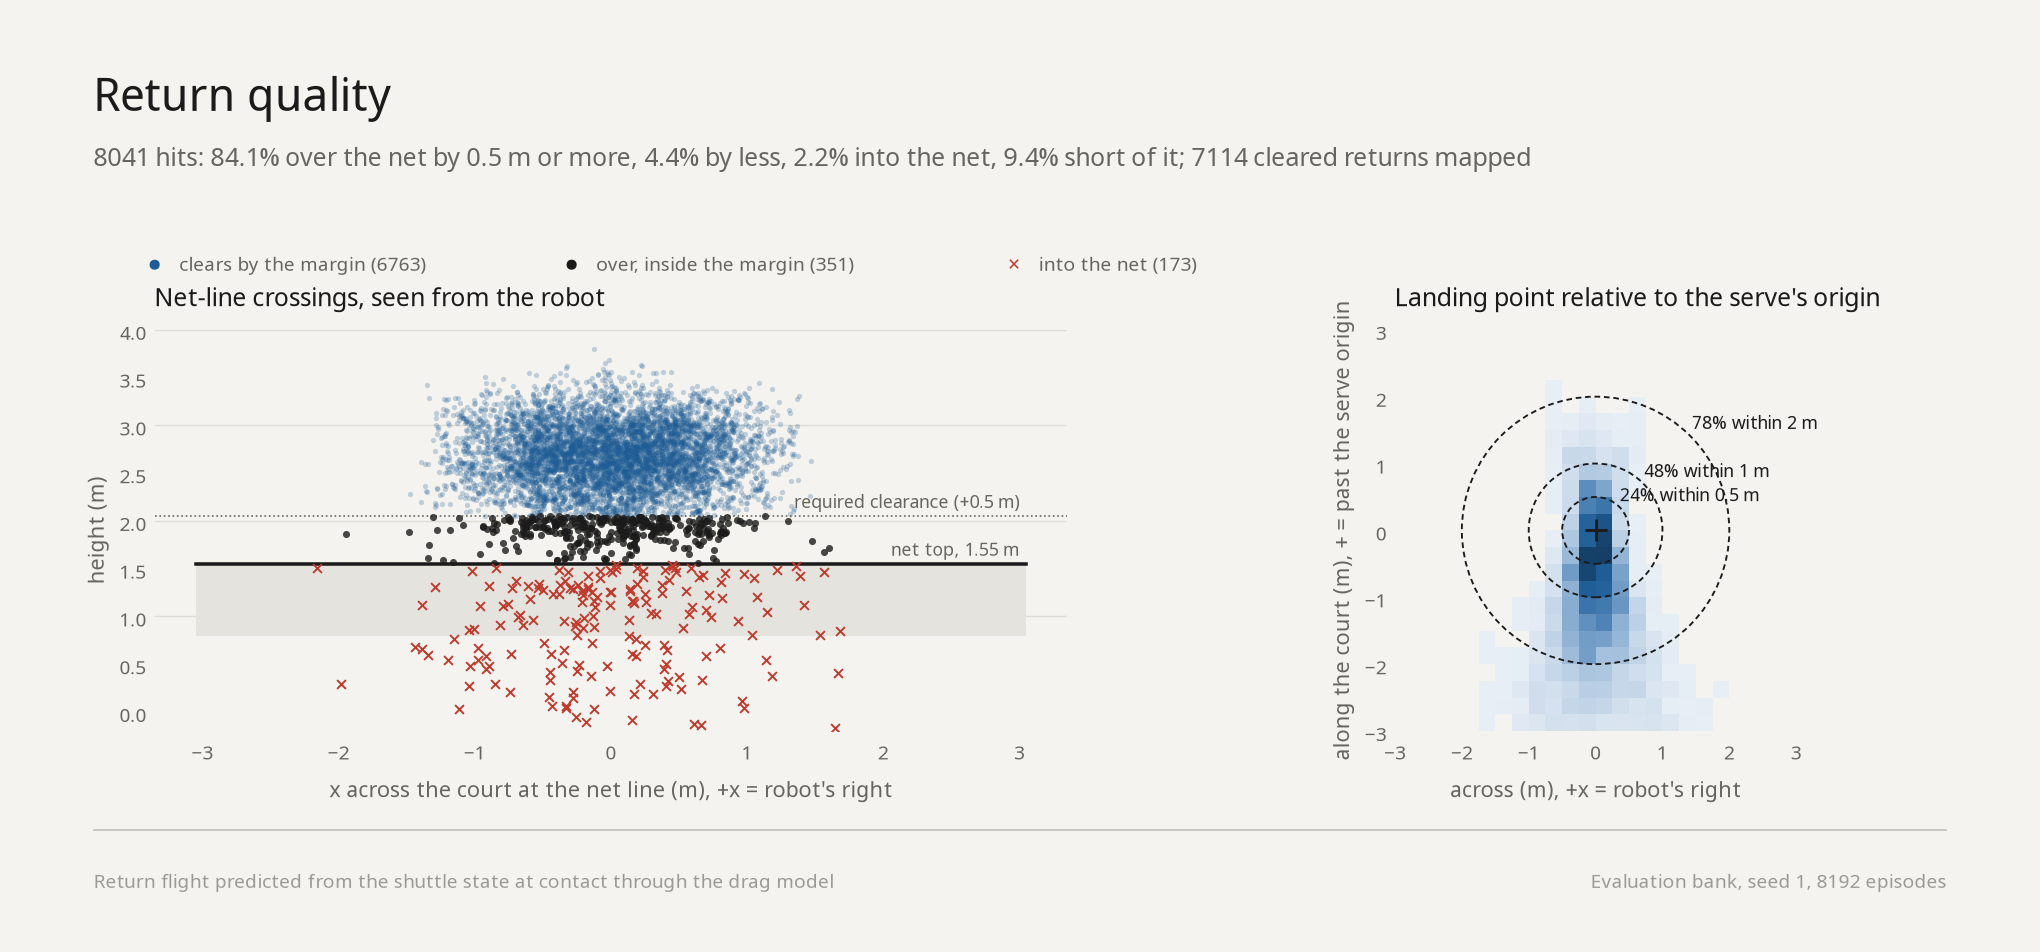
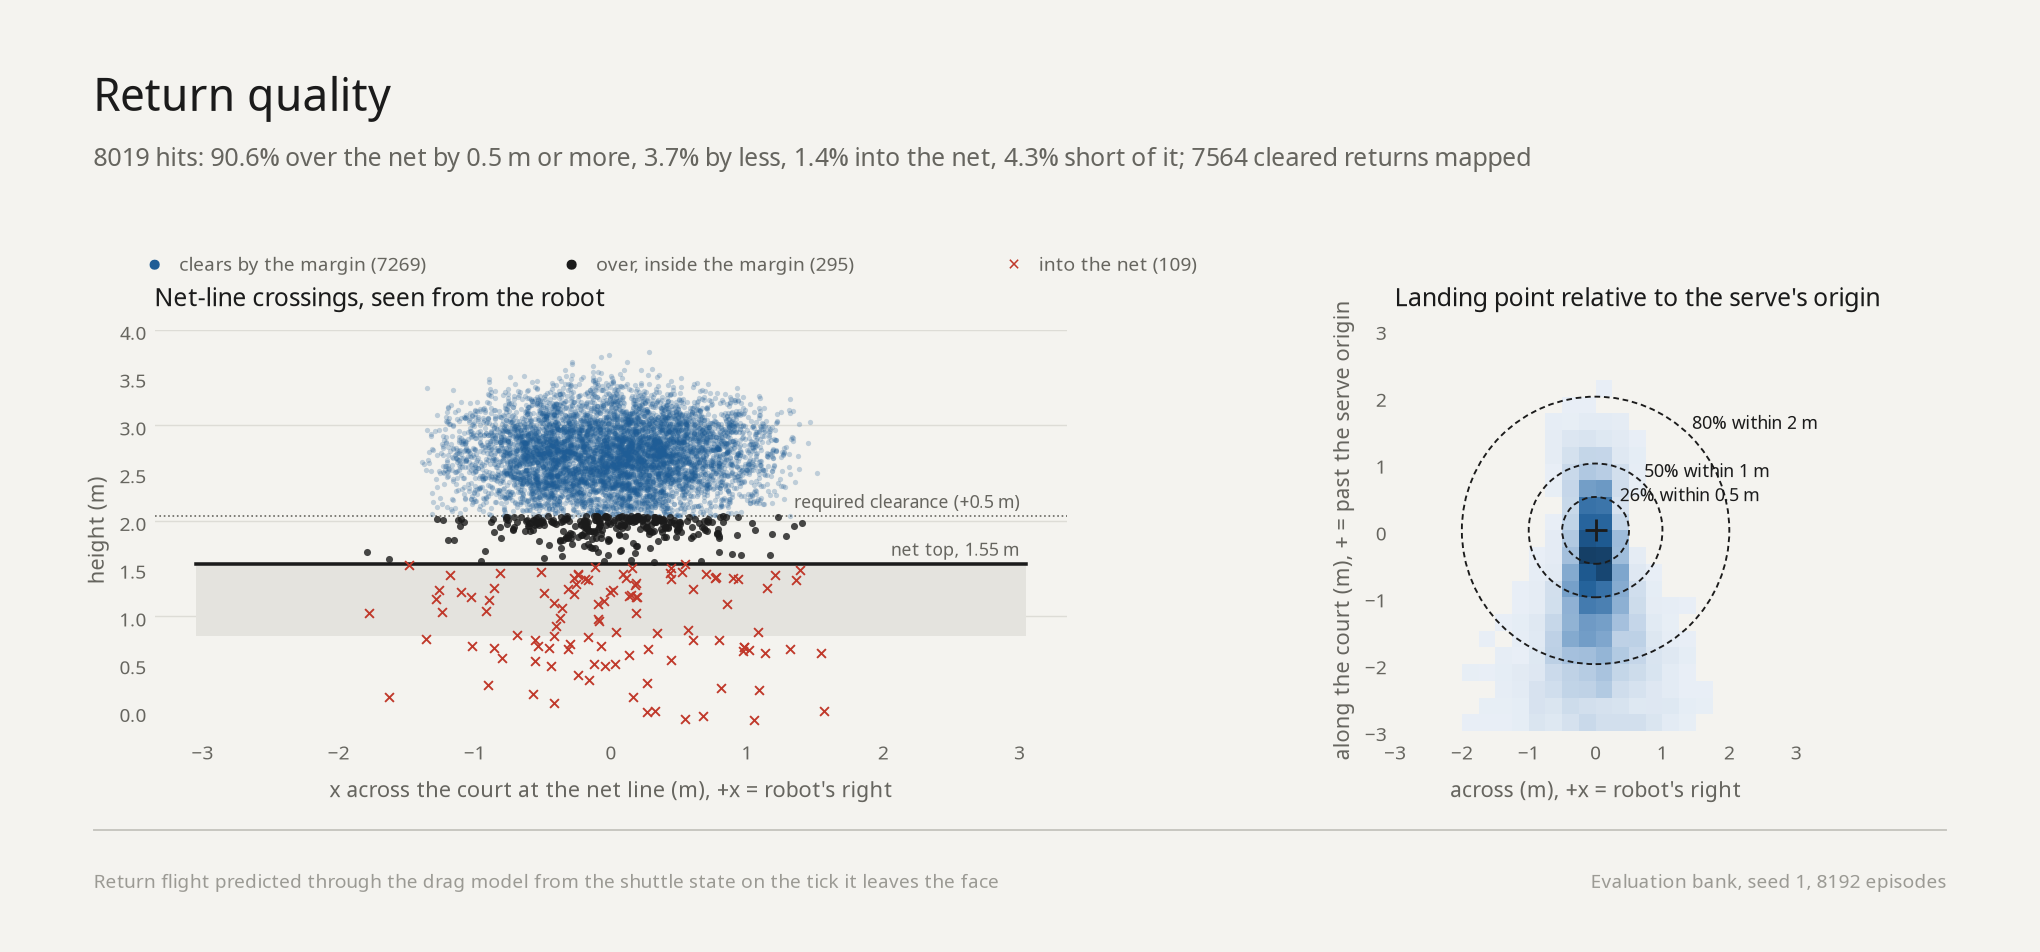
Blog: badminton figures and numbers from the corrected return prediction
Figures 2 to 5 re-rendered from a seed-1 evaluation bank run at humanoid
cd3fcee7, where the return's landing is predicted from the shuttle state on
the first tick after the face lets go of the cork rather than the
first-contact tick (mid-contact when the 12 ms contact spans a tick
boundary). Returns that clear the net go from 88.5% to 94.3% of hits on
both banks; short returns from 9% to 4%. Hit rate 97.9% on the evaluation
bank and 98.2% on the training bank, both rerun on the same node. The
reward paragraph notes that the policy was trained with the contact-tick
version. Figure 1 is unchanged.

Claude-Session: https://claude.ai/code/session_013B3SG4csr1RQ8BdxF7FMRY

diff --git a/wato-humanoid-wiki/blog/2026-10-28-badminton-bimanual-rl.md b/wato-humanoid-wiki/blog/2026-10-28-badminton-bimanual-rl.md
@@ -5,7 +5,7 @@ authors: [sean]
 tags: [software, controls, rl]
 ---
 
-**Goal:** get a stationary bimanual arm to return a badminton serve with either hand, in simulation. The result is one single-arm network that drives both arms, and a small critic model to pick either the left or right arm. On 8192 serves it has never seen, it hits 98.2%, splits the work 50/50 between the arms, and sends 88% of returns over the net.
+**Goal:** get a stationary bimanual arm to return a badminton serve with either hand, in simulation. The result is one single-arm network that drives both arms, and a small critic model to pick either the left or right arm. On 8192 serves it has never seen, it hits 97.9%, splits the work 49/51 between the arms, and sends 94% of returns over the net.
 
 <video width="100%" controls muted playsInline poster="/humanoid-docs/img/humanoid/badminton/blog/demo_poster.png">
   <source src="/humanoid-docs/img/humanoid/badminton/blog/demo.mp4" type="video/mp4" />
@@ -26,12 +26,12 @@ Serves come from a bank of 4096 shots sampled from that distribution. Training d
 
 | | training bank | evaluation bank |
 |---|---|---|
-| serves hit | 98.3% | 98.2% |
-| right / left arm | 49 / 51 | 50 / 50 |
-| returns clear the net | 88.5% | 88.5% |
-| median landing error | 1.07 m | 1.05 m |
+| serves hit | 98.2% | 97.9% |
+| right / left arm | 50 / 50 | 49 / 51 |
+| returns clear the net | 94.3% | 94.3% |
+| median landing error | 1.04 m | 1.00 m |
 
-The training bank itself moves by 0.1 points between reruns (the filter noise and the arm draw differ each time), so the gap is inside that noise.
+The same bank moves by up to 0.3 points between reruns (the filter noise and the arm draw differ each time, and the GPU model changes the numerics), so the gap is inside that noise.
 
 MuJoCo was selected as the simulation environment over Isaac Lab for two main reasons: CPU MuJoCo allows for rapid local iteration without a GPU and Isaac Lab's advantages (rendering, sensor simulation) are not advantageous in this use-case. Training runs on MuJoCo Warp through mjlab, 1024 environments at a time, with rsl_rl's PPO.
 
@@ -88,7 +88,7 @@ The chooser critic is not the one the policy was trained with. The policy's own 
 ![Arm selection by the critic](/img/humanoid/badminton/blog/fig_arm_pick.png)
 *Figure 2: Arm selection on the evaluation bank. Every intercept coloured by the arm that took it, the share taken by the right arm with the 50/50 line, and the hit rate for same-side and cross-body picks.*
 
-The picks are not what a naive rule would produce. The obvious rule is the same-side arm: serves left of centre go to the left arm. The learned model takes the same-side arm on 88% of serves outside the centre band and on only 30% inside it ($|x| < 0.4$ m), where it prefers the cross-body arm. Over the whole bank, cross-body picks hit 98.6% and same-side picks 97.7%. Whatever the critic is reading in the joint state and the approach angle, it is a better rule than the naive solution.
+The picks are not what a naive rule would produce. The obvious rule is the same-side arm: serves left of centre go to the left arm. The learned model takes the same-side arm on 89% of serves outside the centre band and on only 28% inside it ($|x| < 0.4$ m), where it prefers the cross-body arm. Over the whole bank, cross-body picks hit 98.8% and same-side picks 97.0%. Whatever the critic is reading in the joint state and the approach angle, it is a better rule than the naive solution.
 
 Most locks happen at the cap. With $m = 0.5$ the median lock is 0.04 s at the same hit rate, and a cap of 0.3 s, outside the training window, drops the hit rate to 85%.
 
@@ -135,6 +135,8 @@ There are two approach terms because one width cannot do both jobs. At $\sigma =
 
 The landing term is paid at the hit, not at the landing. On the tick of contact the shuttle's velocity is run forward through the drag model to predict where it will come down, and the reward for that prediction is given immediately, so the swing is credited on the tick it happens rather than two seconds later.
 
+One correction to that, made after this policy was trained. The face contact (12 ms time constant) often outlasts the 20 ms control tick it starts in, so the shuttle state at the end of the first-contact tick is sometimes mid-contact, and a return that goes on to clear the net could be predicted short. The return numbers and figures in this post take the state on the first tick after the face lets go of the cork instead. The reward is now paid on that tick too; the policy shown here was trained with the contact-tick version, so some of its landing rewards were noisy.
+
 Episodes are terminated when the shuttle touches the floor or the net, when the two arms touch, or at 3 s.
 
 ## Evaluation results
@@ -145,12 +147,12 @@ Episodes are terminated when the shuttle touches the floor or the net, when the 
 ![Hit rate by intercept position](/img/humanoid/badminton/blog/fig_hit_rate.png)
 *Figure 4: Hit rate by intercept position, seen from the net, with the rate per lateral and height band.*
 
-151 misses out of 8192. They cluster where you would expect: wide serves beyond $|x| = 1$ m (93% hit), low serves below 0.9 m (96%), and the top of the reach above 1.7 m (95%). Everything within 1 m of centre and between 0.9 and 1.7 m high is hit at 98 to 99%.
+173 misses out of 8192. They cluster where you would expect: wide serves beyond $|x| = 1$ m (94% hit), low serves below 0.9 m (94%), and the top of the reach above 1.7 m (95%). Everything within 1 m of centre and between 0.9 and 1.7 m high is hit at 99%.
 
 ![Return quality](/img/humanoid/badminton/blog/fig_returns.png)
 *Figure 5: Return quality. Where the returns cross the net line, and where they land relative to the serve's origin.*
 
-The return is the weaker half. 88% of hits clear the net by the 0.5 m margin, 2% go into the net, and 9% come down on the robot's side. Of the returns that clear, 48% land within 1 m of where the serve was launched from, with a median error of 1.05 m. Aim is the next lever on the reward side.
+The return is the weaker half. 94% of hits clear the net (91% by the 0.5 m margin), 1% go into the net, and 4% come down on the robot's side. Of the returns that clear, 50% land within 1 m of where the serve was launched from, with a median error of 1.00 m. Aim is the next lever on the reward side.
 
 ## Open problems
 
